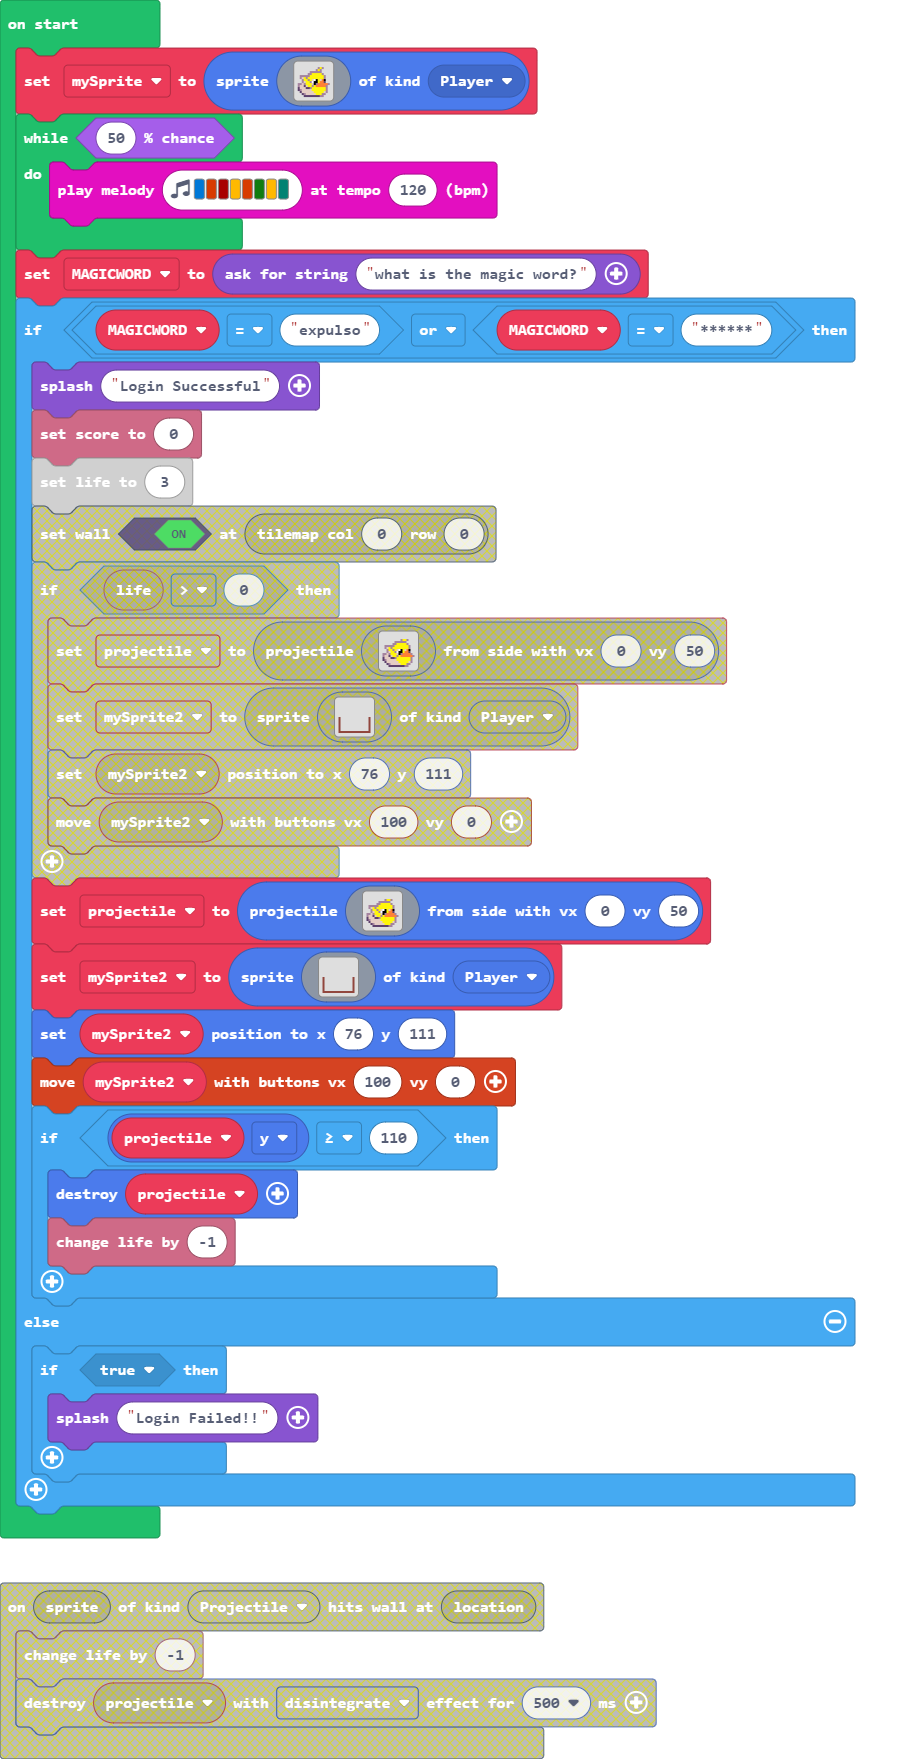
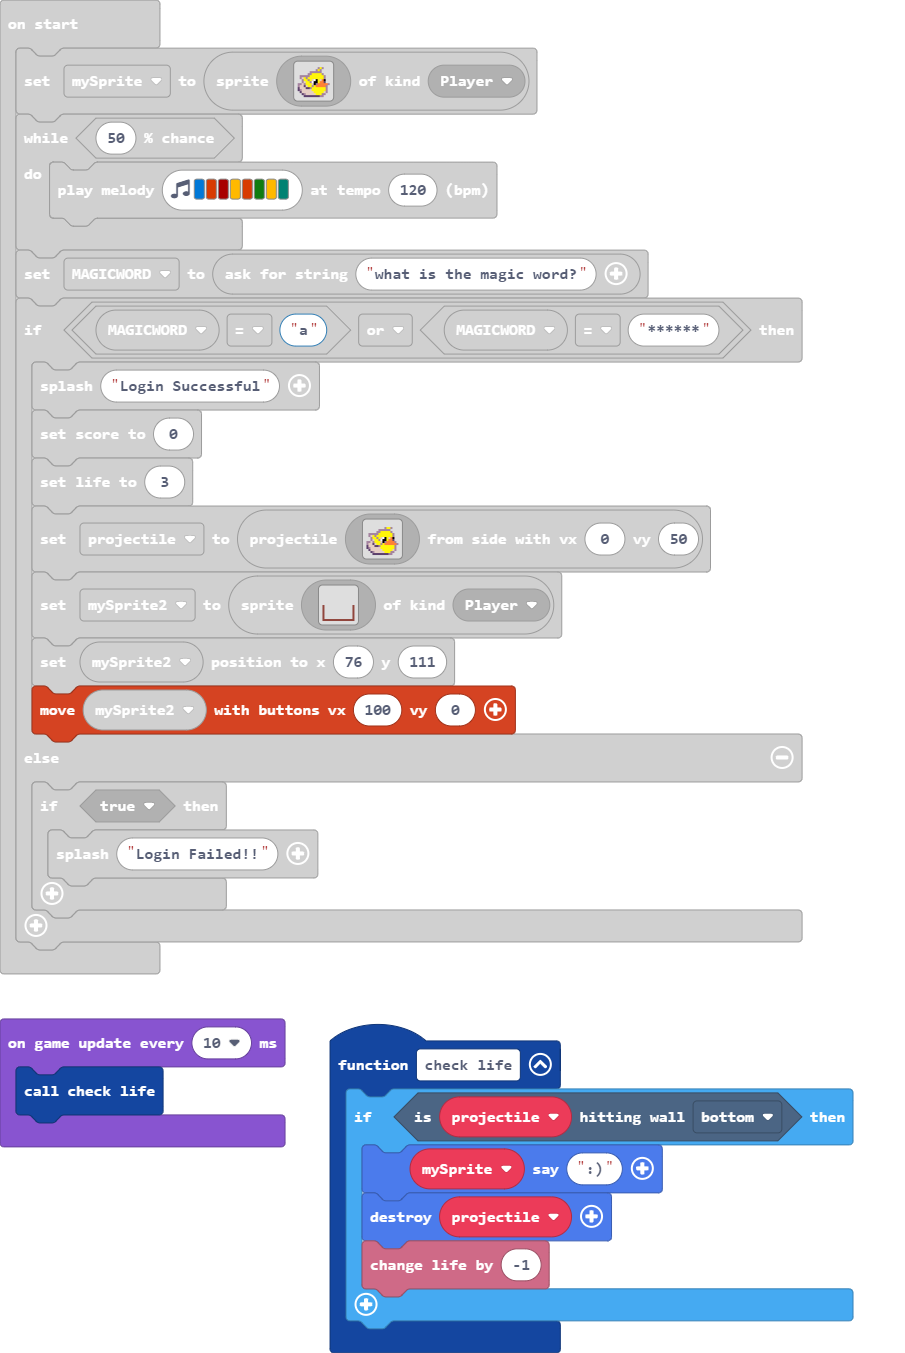
Update main.blocks, main.ts

diff --git a/main.ts b/main.ts
@@ -1,10 +1,18 @@
+function check_life () {
+    if (projectile.isHittingTile(CollisionDirection.Bottom)) {
+        mySprite.sayText(":)")
+        projectile.destroy()
+        info.changeLifeBy(-1)
+    }
+}
 sprites.onOverlap(SpriteKind.Player, SpriteKind.Projectile, function (sprite, otherSprite) {
     info.changeScoreBy(1)
     projectile.destroy(effects.disintegrate, 500)
 })
 let mySprite2: Sprite = null
 let projectile: Sprite = null
-let mySprite = sprites.create(img`
+let mySprite: Sprite = null
+mySprite = sprites.create(img`
     . . . . . . . . . . . . . . . . 
     . . . . . . . . . . b 5 b . . . 
     . . . . . . . . . b 5 b . . . . 
@@ -26,7 +34,7 @@ while (Math.percentChance(50)) {
     music.playMelody("E B C5 A B G A F ", 120)
 }
 let MAGICWORD = game.askForString("what is the magic word?")
-if (MAGICWORD == "expulso" || MAGICWORD == "******") {
+if (MAGICWORD == "a" || MAGICWORD == "******") {
     game.splash("Login Successful")
     info.setScore(0)
     info.setLife(3)
@@ -68,12 +76,11 @@ if (MAGICWORD == "expulso" || MAGICWORD == "******") {
         `, SpriteKind.Player)
     mySprite2.setPosition(76, 111)
     controller.moveSprite(mySprite2, 100, 0)
-    if (projectile.y >= 110) {
-        projectile.destroy()
-        info.changeLifeBy(-1)
-    }
 } else {
     if (true) {
         game.splash("Login Failed!!")
     }
 }
+game.onUpdateInterval(10, function () {
+    check_life()
+})
